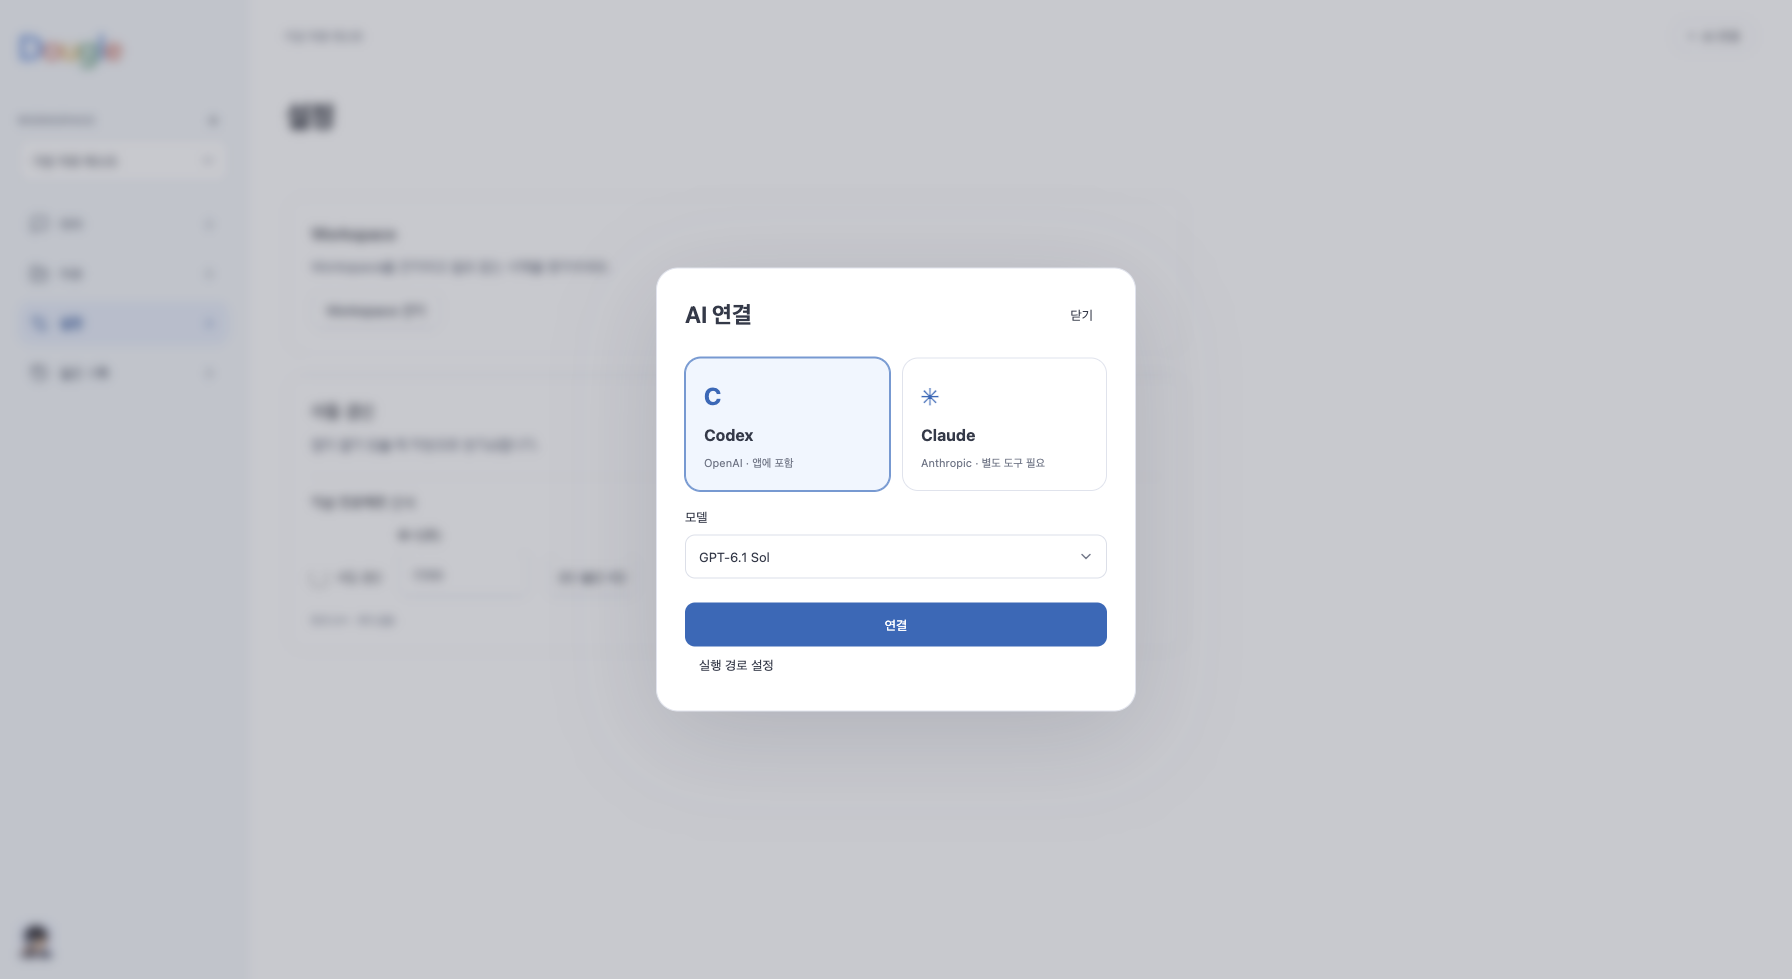
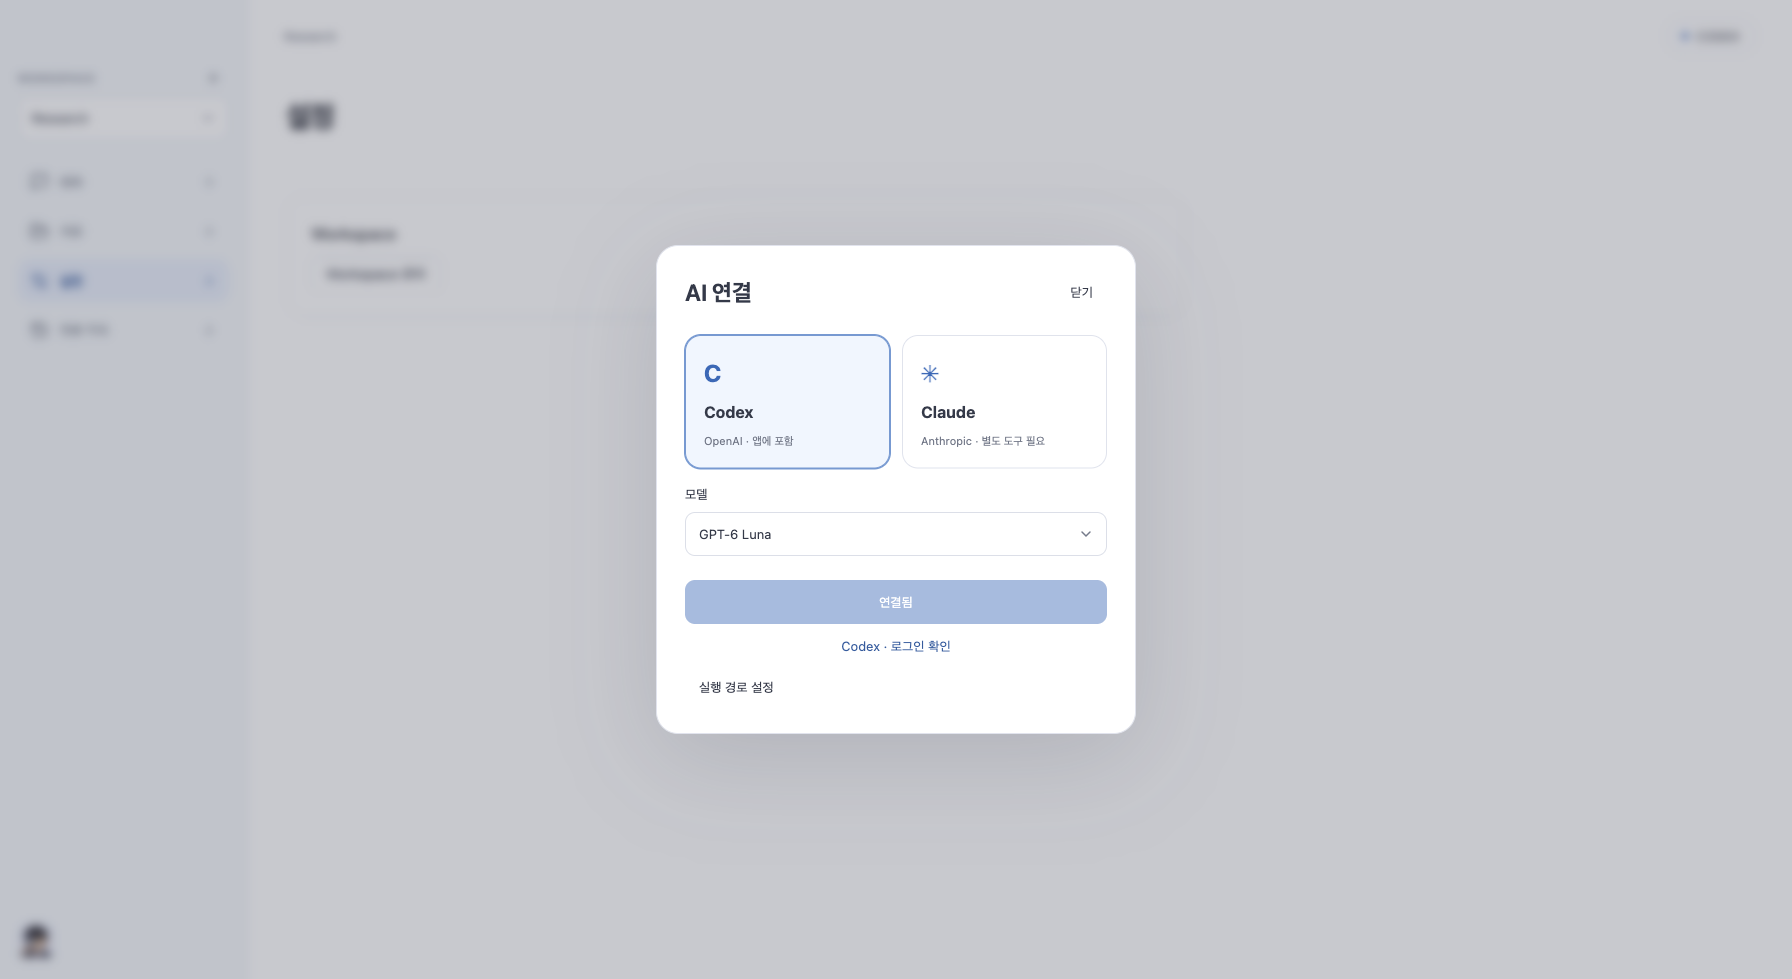
Document final Dougle verification and refreshed screens

diff --git a/docs/release-0.1.14-report.md b/docs/release-0.1.14-report.md
@@ -1,8 +1,8 @@
 # Dougle 0.1.14
 
-## 최종 변경분 검증 중
+## 최종 빌드·로컬 설치 완료
 
-초기 0.1.14는 로컬 설치했지만 추가 요청을 반영한 최종본은 아직 배포하지 않았습니다. 공개본은 0.1.13입니다. 이전 초안 자산을 제거했고 최종 빌드·검증 후 교체합니다.
+최종 앱 소스는 `d56af1a`입니다. 양 CPU 설치 파일을 다시 만들고 이 Mac에 최종 0.1.14를 백업 후 재설치했습니다. 공개 자산 업로드·해시 검증·피드 승격은 진행 중입니다.
 
 - 자료 목록 통합, 아이콘 동기화/추가, 파일 선택 후에만 미리보기, 자료 수정 대신 삭제/재등록.
 - 중복 제목·안내·기록 화면의 새 질문·사이드바 로고 제거, 둥근 하단 캐릭터.
@@ -15,10 +15,14 @@
 ## 확인한 결과
 
 - 최종 UI 전체 264건, TypeScript/Vite 빌드 통과.
-- Rust 20건 통과. 양 CPU 최종 네이티브 빌드 진행 중.
-- Java 전체 재검증 진행 중. 첫 실행의 모델 문서 누락을 보완했습니다. 병렬 빌드 중 가상 로그인 시간 초과는 재검사에서 통과했습니다. 종료 관측 타이밍 검사 실패는 별도 재확인 중이며 테스트 제한을 완화하지 않았습니다.
-- 준비 페이지의 다색 로고·오류 안내 숨김을 실제 브라우저에서 확인했습니다.
-- 초기 0.1.14의 브라우저/Intel WebKit/양 CPU 정적·서명·로컬 설치 검사는 통과했으나 최종 변경분의 검사와 혼동하지 않습니다. 최종 패키지/스크린샷/설치 검증은 추가 진행합니다.
+- Rust 20건, 양 CPU 네이티브/JAR 빌드 통과. 두 CPU DMG 정적 검사·업데이트 서명·버전·현재 JAR 일치 검사 통과.
+- Java 전체 실행은 **완전 통과가 아닙니다**: 최종 전체 실행 397개 결과에서 실패 1·정리 오류 1·실제 AI 검사 제외 1입니다. 변경 대상 Source 통합 25건·마이그레이션·이름 검사는 통과했습니다. 기존 `DesktopBootstrapTest`는 자원 close 관측 직후 context active를 검사하는 타이밍 실패이며 단독 재검사에서는 두 번 통과했습니다. 기존 `RelationSearchIntegrationTest`의 6개 기능 검사는 통과하지만 Spring 색인 작업이 살아 있는 동안 JUnit 임시 Lucene 폴더를 정리하며 DirectoryNotEmptyException이 발생합니다. 단독 재검사에서도 정리 오류가 남았습니다. 두 기존 테스트/앱 로직은 이번 변경 범위 밖이라 수정하거나 검사를 완화하지 않았습니다. 최초 모델 문서 누락은 보완했고 가상 로그인 시간 초과는 재검사 통과했습니다.
+- 실제 브라우저에서 준비 페이지 다색 로고/오류 안내 숨김, 비활성 질문창, 중복 Workspace 차단, 자동 갱신 토글/새 Source 상속, 가상 로그인 후 프로필 재열기·같은 제공자/모델 변경·다른 제공자 왕복 시 연결 유지, 아이콘 동기화, 파일 클릭 시 미리보기/닫기, 질문 기록의 간결한 빈 상태·새 질문 버튼 없음·가로 넘침 없음을 확인했습니다. 가상 추론 호출도 0회입니다. OS 폴더 선택 대신 가상 폴더 등록만 fixture API로 수행했고 동기화·탐색은 UI로 검증했습니다.
+- 최종 Intel DMG에서 실제 React/WebKit·로컬 수집/설정 검사를 통과했습니다. 네이티브 시작 관측 362회에서 status/중복 창이 없었고 메인 창을 40회 확인했습니다. HTTP 200/403, 자식 프로세스 종료도 통과했습니다.
+- 이 Mac은 종료한 DB/앱 백업 후 최종본으로 교체하고 UI 200·미인증 API 403을 확인했습니다. 인증 내용은 읽거나 바꾸지 않았습니다. DB v23을 구버전 앱으로 열지 마세요.
 - 실제 외부 AI 호출·ARM 실기기·Apple 공증은 검증 범위가 아닙니다.
 
 ![준비 페이지](images/startup-ready.png)
+![질문 화면](images/chat-home.png)
+![자료 화면](images/library-simple.png)
+![Workspace 관리](images/settings-simple.png)

diff --git a/HANDOFF.md b/HANDOFF.md
@@ -2,7 +2,7 @@
 
 ## 현재 작업: 0.1.14 화면 간소화
 
-0.1.13은 공개 완료. 초기 0.1.14는 로컬 설치됐으나 추가 요청 반영본은 아직 재검증 중입니다. 자료 아이콘/목록·연결 유지·Workspace 자동 갱신 토글(DB v23)·중복 이름 검사·네이티브 다색 로고를 포함합니다. GitHub 저장소는 `thisisnew/dougle`로 변경했습니다. 0.1.14 공개 초안의 이전 자산은 제거했고 최종 재빌드 후 교체합니다. [변경 설계](docs/library-simplification.md), [검증·배포 상태](docs/release-0.1.14-report.md).
+최종 앱 소스 `d56af1a`: 자료 아이콘/목록·연결 유지·Workspace 자동 갱신 토글(DB v23)·중복 이름 검사·네이티브 다색 로고를 포함합니다. GitHub 저장소는 `thisisnew/dougle`. UI 264·Rust 20·가상 브라우저·최종 Intel WebKit/단일 창·두 CPU 서명/정적 검사 통과, 이 Mac 최종 재설치 및 UI 200/API 403 확인 완료. Java 전체에는 기존 종료 관측 타이밍 실패/임시 Lucene 폴더 정리 오류가 있어 완전 통과로 보고하지 않습니다. 변경 대상 검사는 통과했습니다. 공개 자산 업로드·검증·피드 승격은 진행 중입니다. [변경 설계](docs/library-simplification.md), [검증·배포 상태](docs/release-0.1.14-report.md).
 
 ## 진행 중: Dougle 0.1.13
 

diff --git a/docs/phase-plan.md b/docs/phase-plan.md
@@ -2,7 +2,7 @@
 
 ## 최신: Dougle 0.1.14 검증 중
 
-자료 목록/아이콘·AI 연결 유지·Workspace 자동 갱신 토글(DB v23)·중복 이름 검사·네이티브 다색 로고를 구현했습니다. GitHub 저장소는 `thisisnew/dougle`. 공개본은 0.1.13이며 로컬의 초기 0.1.14를 최종본으로 교체할 예정입니다. [0.1.14 실제 상태](release-0.1.14-report.md).
+자료 목록/아이콘·AI 연결 유지·Workspace 자동 갱신 토글(DB v23)·중복 이름 검사·네이티브 다색 로고를 구현했습니다. GitHub 저장소는 `thisisnew/dougle`. 최종본 로컬 재설치·Intel 실행·양 CPU 서명 검사 완료. Java 전체는 기존 종료/임시 폴더 정리 테스트 실패를 별도 기록했으며 변경 대상/UI/Rust 검사는 통과했습니다. 공개 자산 업로드와 피드 승격은 진행 중입니다. [0.1.14 실제 상태](release-0.1.14-report.md).
 
 **최신 작업: Dougle 0.1.13.** CLUE에서 Dougle · 더글로 이름과 화면을 바꿉니다. [디자인](dougle-brand.md), [실제 검증·배포 상태](release-0.1.13-report.md). 0.1.12는 로컬 설치 완료·공개 초안이며, 현재 공개 피드는 아직 0.1.11입니다.
 
